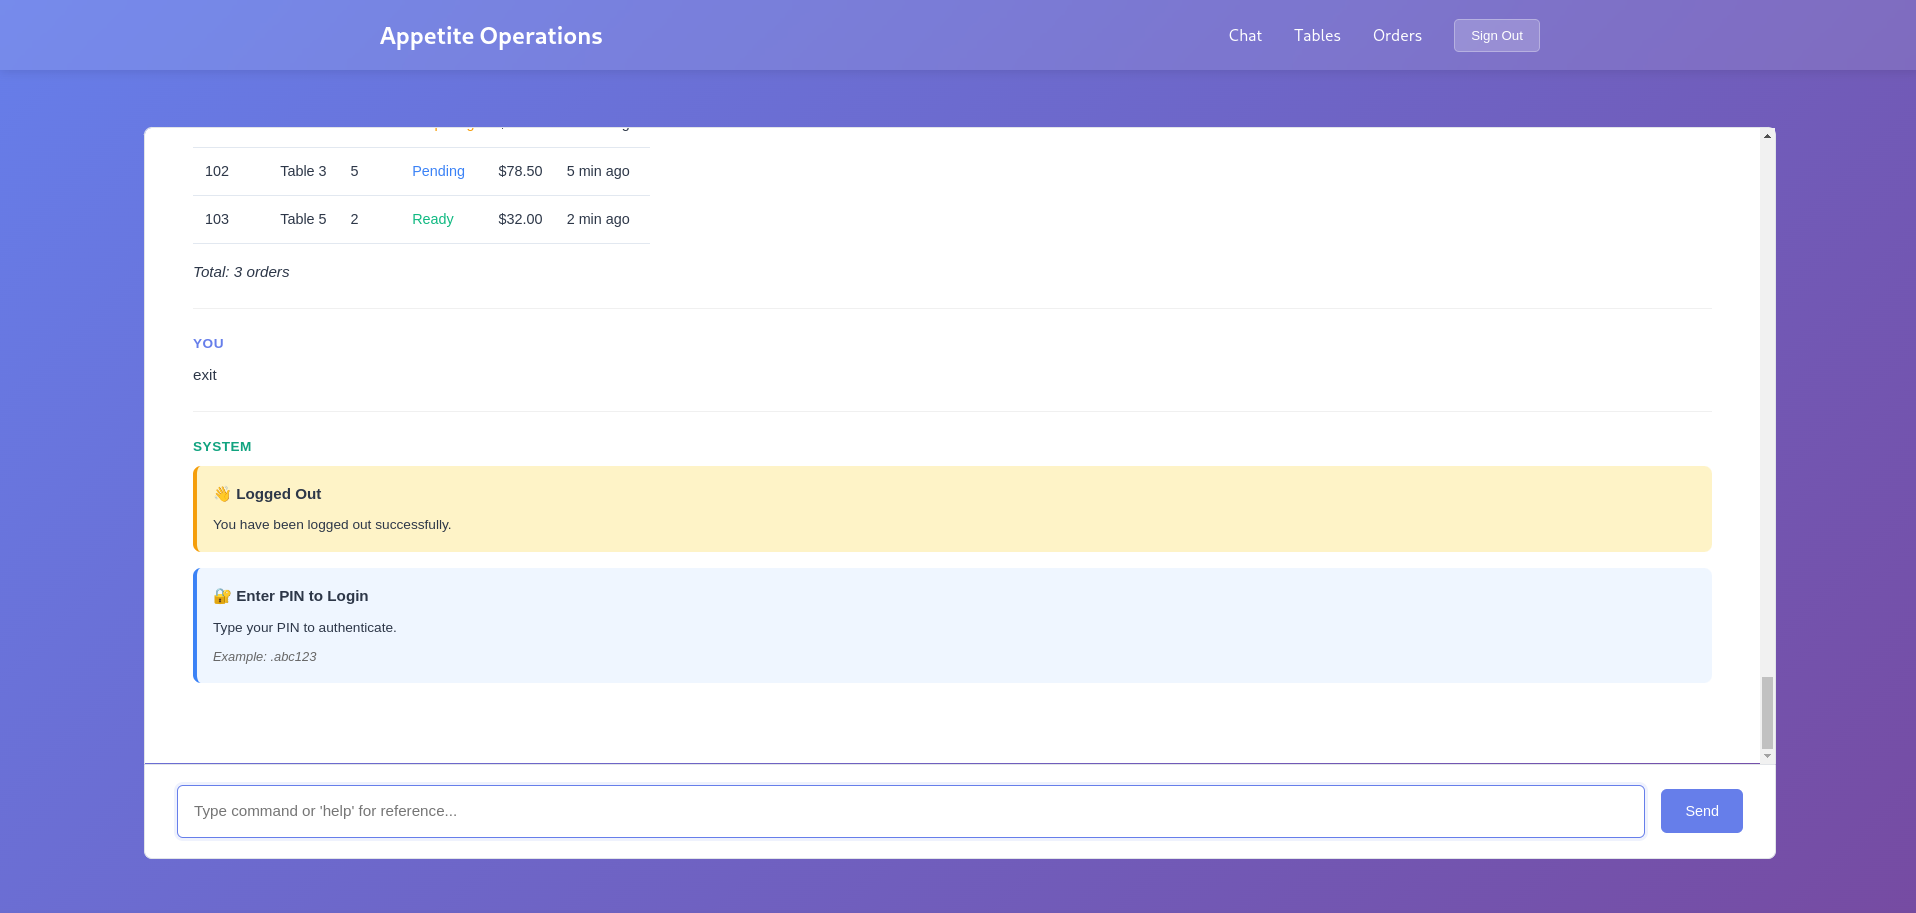
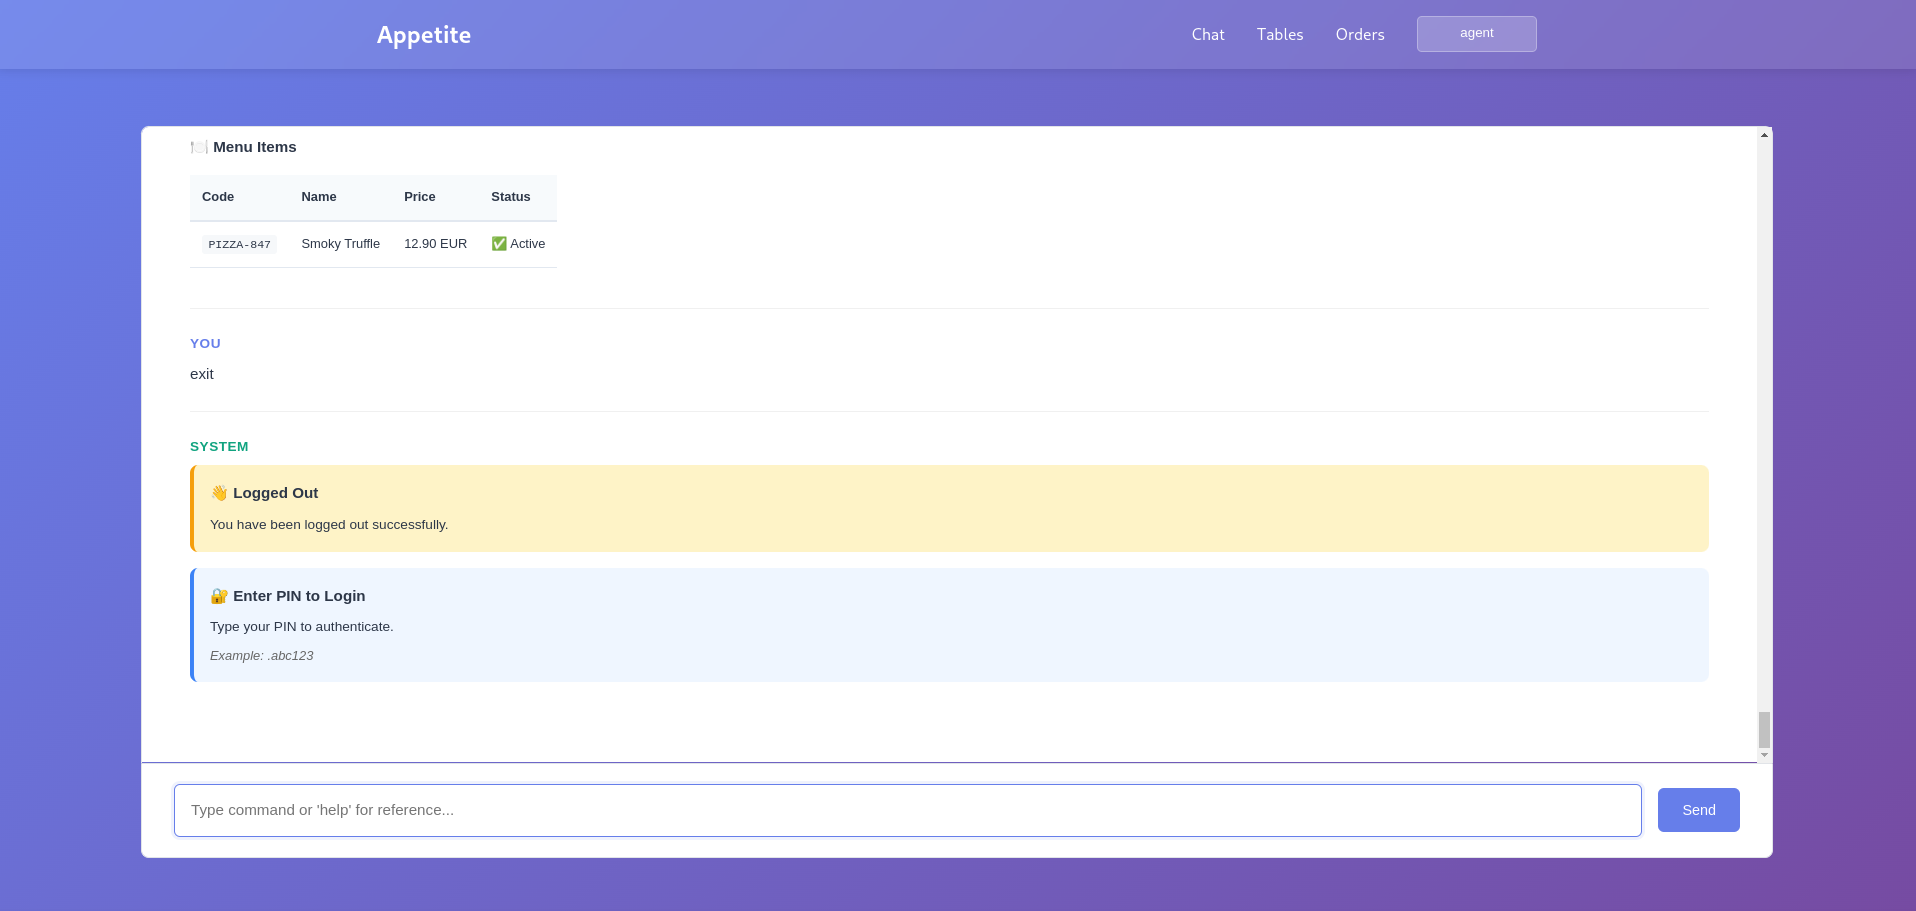
Update gallery

diff --git a/docs/gallery/index.md b/docs/gallery/index.md
@@ -13,22 +13,31 @@ Views from the public-facing operational interfaces used by staff.
 ### Operations Chat
 ![Operations Chat](../img/gallery/operations-chat.png)
 
+### Chat - Login
+![Operations Chat Login](../img/gallery/operations-chat-login.png)
+
 ### Help Command
 ![Operations Help Command](../img/gallery/operations-help-command.png)
 
 ![Operations Help Command 2](../img/gallery/operations-help-command-2.png)
-
-### Chat - Sign In Required
-![Operations Chat - Sign In Required](../img/gallery/operations-chat-signin-required.png)
-
-### Chat - Signed In
-![Operations Chat - Signed In](../img/gallery/operations-chat-signed-in.png)
 
 ### List Tables
 ![Operations List Tables](../img/gallery/operations-list-tables.png)
 
 ### List Orders
 ![Operations List Orders](../img/gallery/operations-list-orders.png)
+
+### List Menu
+![Operations List Menu](../img/gallery/operations-list-menu.png)
+
+### New Menu Item - Step 1
+![Operations New Menu Item](../img/gallery/operations-new-menu-item.png)
+
+### New Menu Item - Step 2
+![Operations New Menu Item 2](../img/gallery/operations-new-menu-item-2.png)
+
+### New Menu Item - Step 3
+![Operations New Menu Item 3](../img/gallery/operations-new-menu-item-3.png)
 
 ### Chat Exit
 ![Operations Chat Exit](../img/gallery/operations-chat-exit.png)
